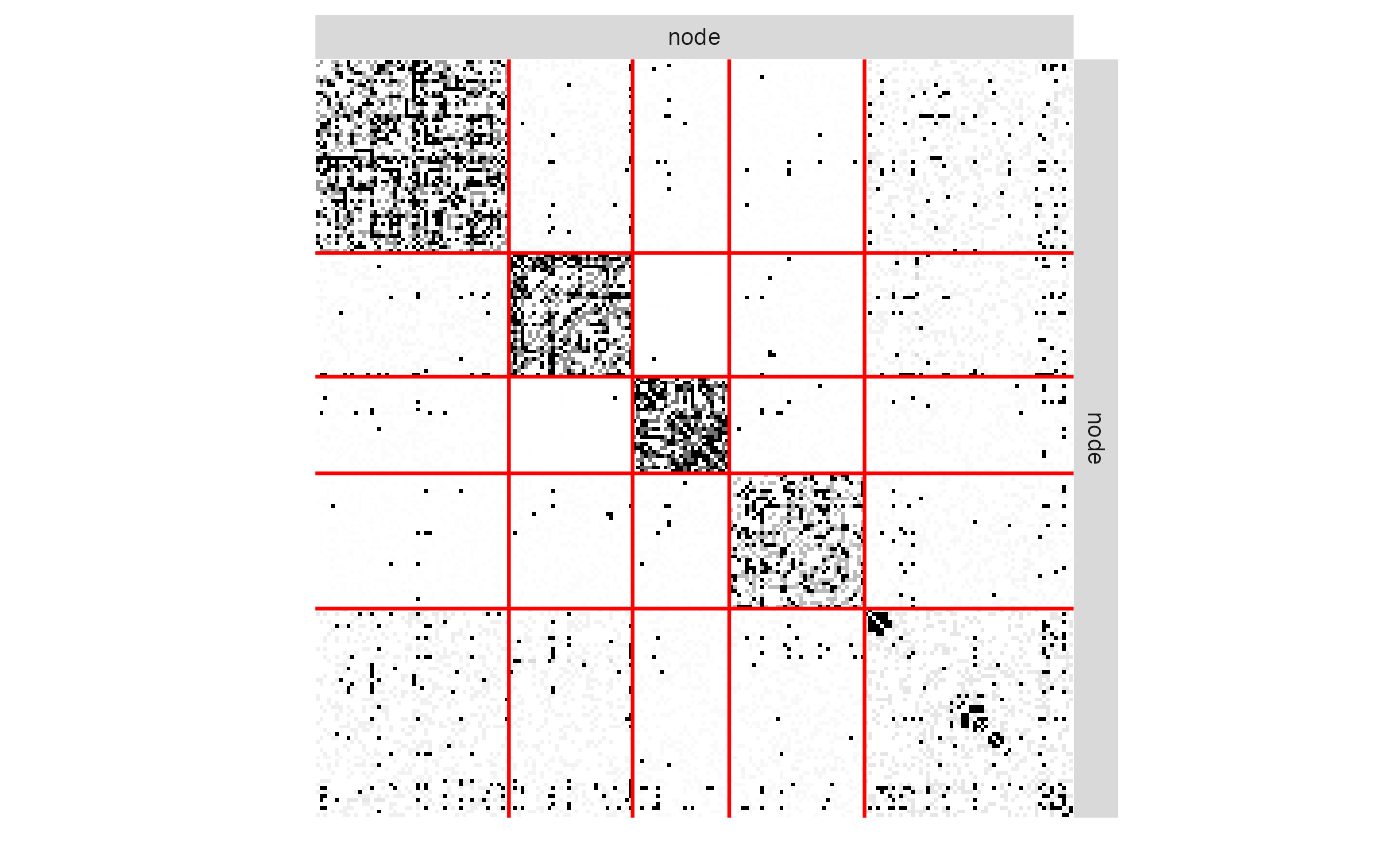
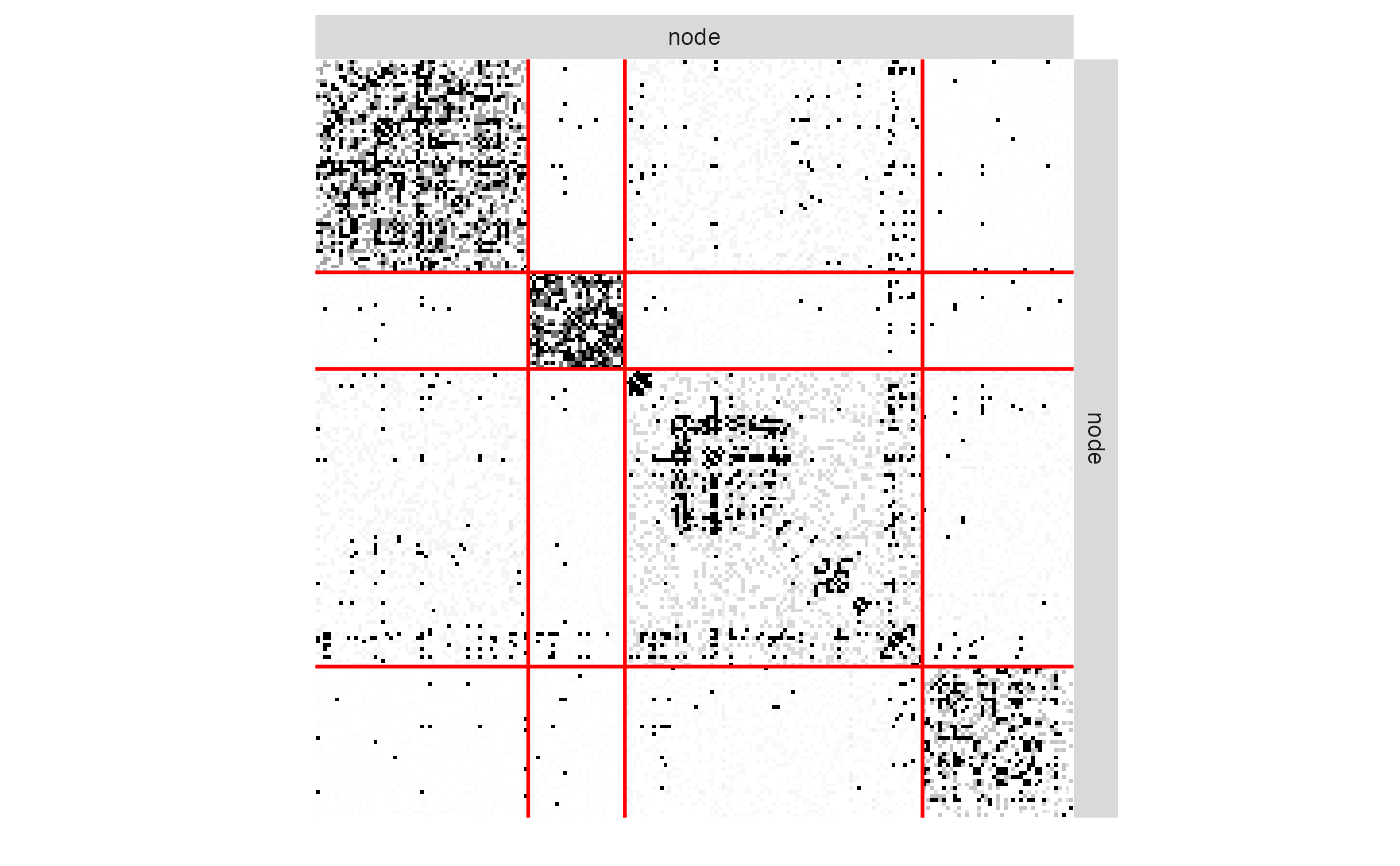
Deploying to gh-pages from @ GrossSBM/missSBM@d212b05dc5563f2bba130bcde3bd090166a59b1f 🚀

diff --git a/reference/missSBM_collection.html b/reference/missSBM_collection.html
@@ -252,11 +252,11 @@ as S3 methods. See the documentation for <code>show()</code> and <code><a href="
 <span class="r-out co"><span class="r-pr">#&gt;</span> </span>
 <span class="r-out co"><span class="r-pr">#&gt;</span>  Initialization of 5 model(s). </span>
 <span class="r-out co"><span class="r-pr">#&gt;</span>  Performing VEM inference</span>
-<span class="r-out co"><span class="r-pr">#&gt;</span>  	Model with 2 blocks.
+<span class="r-out co"><span class="r-pr">#&gt;</span>  	Model with 3 blocks.
+ 	Model with 2 blocks.
  	Model with 5 blocks.
- 	Model with 3 blocks.
- 	Model with 1 blocks.
  	Model with 4 blocks.
+ 	Model with 1 blocks.
 </span>
 <span class="r-out co"><span class="r-pr">#&gt;</span>  Looking for better solutions</span>
 <span class="r-out co"><span class="r-pr">#&gt;</span>  Pass 1   Going forward ++++

diff --git a/reference/missSBM_fit.html b/reference/missSBM_fit.html
@@ -346,9 +346,9 @@ is overridden by <code>trial_niter</code></p></dd>
 <span class="r-out co"><span class="r-pr">#&gt;</span> </span>
 <span class="r-out co"><span class="r-pr">#&gt;</span>  Initialization of 3 model(s). </span>
 <span class="r-out co"><span class="r-pr">#&gt;</span>  Performing VEM inference</span>
-<span class="r-out co"><span class="r-pr">#&gt;</span>  	Model with 4 blocks.
- 	Model with 5 blocks.
+<span class="r-out co"><span class="r-pr">#&gt;</span>  	Model with 5 blocks.
  	Model with 3 blocks.
+ 	Model with 4 blocks.
 </span>
 <span class="r-out co"><span class="r-pr">#&gt;</span>  Looking for better solutions</span>
 <span class="r-out co"><span class="r-pr">#&gt;</span>  Pass 1   Going forward ++

diff --git a/reference/estimateMissSBM.html b/reference/estimateMissSBM.html
@@ -204,9 +204,6 @@ node-centered samplings. See <a href="https://doi.org/10.1080/01621459.2018.1562
 <span class="r-in"><span><span class="fu"><a href="https://rdrr.io/r/graphics/plot.default.html" class="external-link">plot</a></span><span class="op">(</span><span class="va">collection</span>, <span class="st">"monitoring"</span><span class="op">)</span></span></span>
 <span class="r-plt img"><img src="estimateMissSBM-1.png" alt="" width="700" height="433"></span>
 <span class="r-in"><span><span class="fu"><a href="https://rdrr.io/r/graphics/plot.default.html" class="external-link">plot</a></span><span class="op">(</span><span class="va">collection</span>, <span class="st">"icl"</span><span class="op">)</span></span></span>
-<span class="r-wrn co"><span class="r-pr">#&gt;</span> <span class="warning">Warning: </span>`qplot()` was deprecated in ggplot2 3.4.0.</span>
-<span class="r-wrn co"><span class="r-pr">#&gt;</span> <span style="color: #00BBBB;">ℹ</span> The deprecated feature was likely used in the <span style="color: #0000BB;">missSBM</span> package.</span>
-<span class="r-wrn co"><span class="r-pr">#&gt;</span>   Please report the issue at <span style="color: #0000BB; font-style: italic;">&lt;https://github.com/grossSBM/missSBM/issues&gt;</span>.</span>
 <span class="r-plt img"><img src="estimateMissSBM-2.png" alt="" width="700" height="433"></span>
 <span class="r-in"><span></span></span>
 <span class="r-in"><span><span class="va">collection</span><span class="op">$</span><span class="va">ICL</span></span></span>

diff --git a/articles/case_study_war_networks.html b/articles/case_study_war_networks.html
@@ -93,7 +93,7 @@
                         <h4 data-toc-skip class="author">missSBM
 team</h4>
             
-            <h4 data-toc-skip class="date">Last update: 2026-07-10</h4>
+            <h4 data-toc-skip class="date">Last update: 2026-07-20</h4>
       
       <small class="dont-index">Source: <a href="https://github.com/grossSBM/missSBM/blob/master/vignettes/case_study_war_networks.Rmd" class="external-link"><code>vignettes/case_study_war_networks.Rmd</code></a></small>
       <div class="hidden name"><code>case_study_war_networks.Rmd</code></div>

diff --git a/news/index.html b/news/index.html
@@ -84,6 +84,8 @@
 <ul><li>cap the number of merge candidates tried during backward exploration (<code>control$maxMergeCandidates</code>, default 30) instead of always trying every pair</li>
 <li>fix a crash and a closed-form algebra bug in the “degree” sampling design; parameter recovery for this design can still be biased under heavy missingness (known limitation)</li>
 <li>fix a consistency bug in <code>missSBM_fit$doVEM()</code>’s step-back: only the SBM was restored, not the sampling model or the current imputation</li>
+<li>fix silent block-count corruption during split/merge exploration: a VEM component collapse could produce a degenerate candidate that got accepted into the wrong <code>vBlocks</code> slot, causing duplicated/missing entries and a non-smooth ICL/ELBO in <code><a href="https://rdrr.io/r/graphics/plot.default.html" class="external-link">plot()</a></code>
+</li>
 <li>speed up <code>getCovarArray()</code> and <code>kmeans_missSBM()</code>’s seeding</li>
 <li>remove unused <code>src/utils.h</code>
 </li>